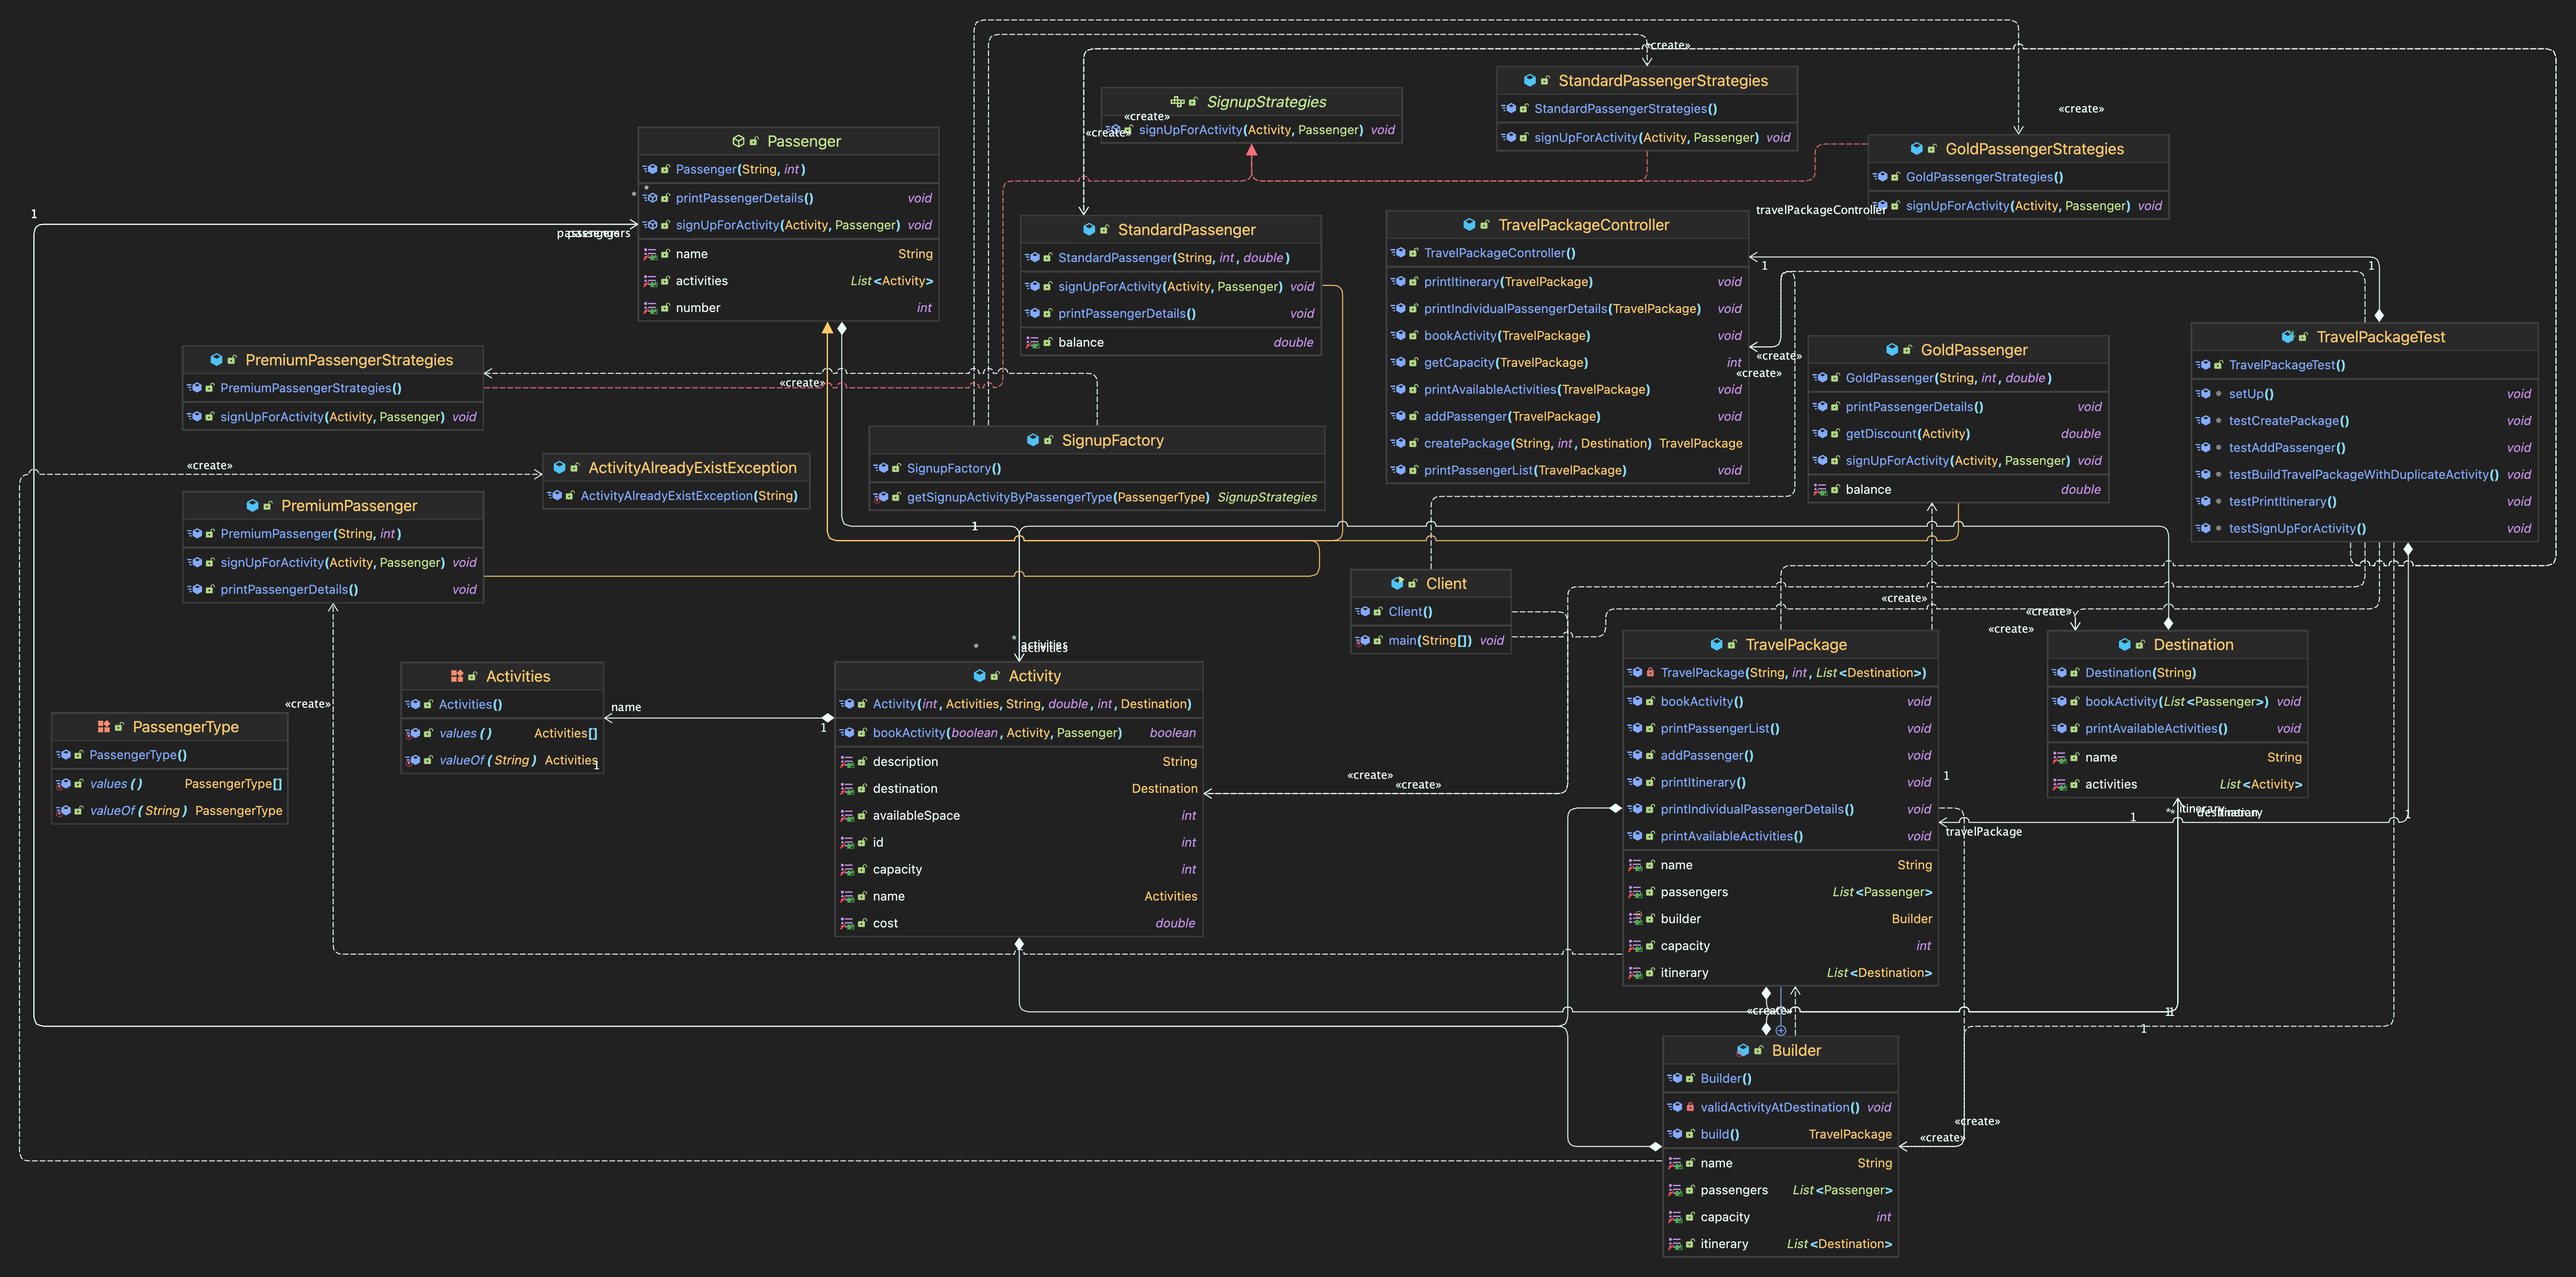
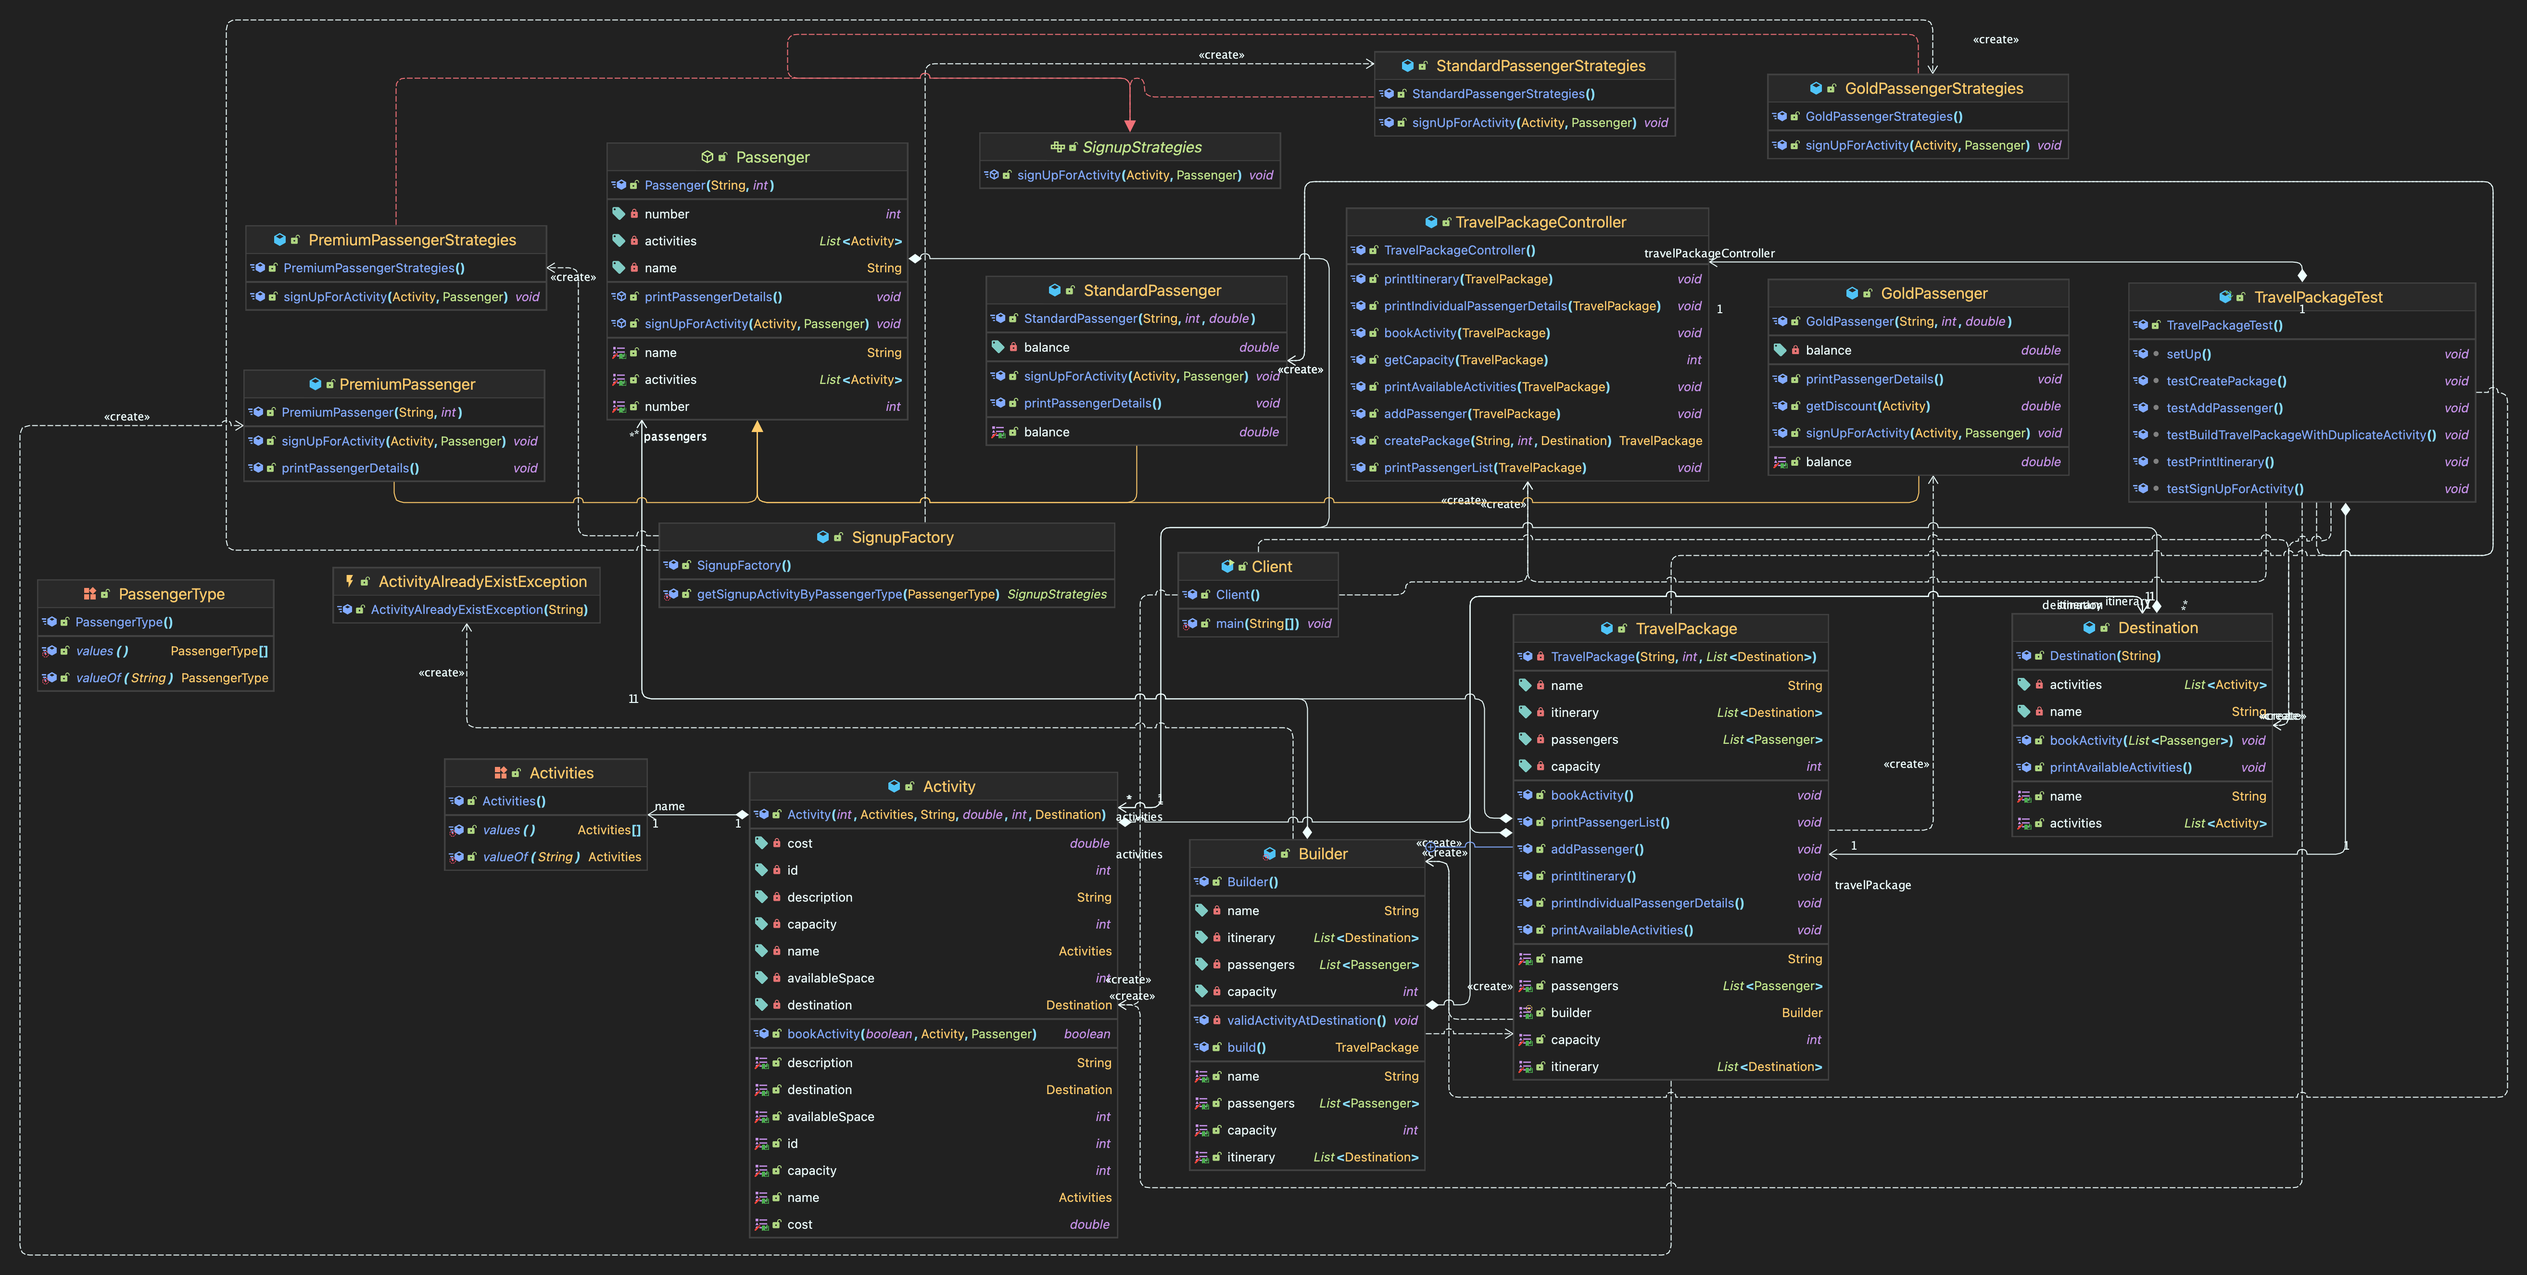
A new exception added

diff --git a/src/model/Destination.java b/src/model/Destination.java
@@ -1,5 +1,7 @@
 package model;
 
+import exception.InvalidActivityNumberException;
+
 import java.util.ArrayList;
 import java.util.List;
 import java.util.Scanner;
@@ -68,7 +70,7 @@ public class Destination {
      * @param passengers List of passengers for whom activities are booked.
      */
 
-    public void bookActivity(List<Passenger> passengers) {
+    public void bookActivity(List<Passenger> passengers) throws InvalidActivityNumberException {
         System.out.println("---------------------------------------------------------------------");
         boolean flag = true;
         Scanner sc = new Scanner(System.in);
@@ -80,7 +82,9 @@ public class Destination {
             sc.nextLine();// to handle extra space which come in the form of enter when user try to input details from console
             Activity activity = this.getActivities().stream().filter(a -> a.getId() == activity_number).findFirst().orElse(null);
             Passenger passenger = passengers.stream().filter(p -> p.getNumber() == passenger_number).findFirst().orElse(null);
-            assert activity != null;
+            if(activity == null){
+                throw new InvalidActivityNumberException("Please provide correct activity id");
+            }
             flag = activity.bookActivity(flag, activity, passenger);
         }
         System.out.println("---------------------------------------------------------------------");

diff --git a/src/exception/InvalidActivityNumberException.java b/src/exception/InvalidActivityNumberException.java
@@ -1,0 +1,16 @@
+package exception;
+
+/**
+ * An exception class to represent the case when an invalid activity number is encountered.
+ * This exception can be thrown when attempting to perform an operation with an invalid activity number.
+ */
+public class InvalidActivityNumberException extends Throwable {
+    /**
+     * Constructs an InvalidActivityNumberException with the specified detail message.
+     *
+     * @param please_provide_correct_activity_id The detail message indicating the reason for the exception.
+     */
+    public InvalidActivityNumberException(String please_provide_correct_activity_id) {
+        super(please_provide_correct_activity_id);
+    }
+}

diff --git a/src/Client.java b/src/Client.java
@@ -1,12 +1,13 @@
 import Controller.TravelPackageController;
 import exception.ActivityAlreadyExistException;
+import exception.InvalidActivityNumberException;
 import model.*;
 
 import java.util.List;
 import java.util.Scanner;
 
 public class Client {
-    public static void main(String[] args) throws ActivityAlreadyExistException {
+    public static void main(String[] args) throws ActivityAlreadyExistException, InvalidActivityNumberException {
         // Client journey starts here
         TravelPackageController travelPackageController = new TravelPackageController();
         Scanner sc = new Scanner(System.in);

diff --git a/src/model/TravelPackage.java b/src/model/TravelPackage.java
@@ -1,6 +1,7 @@
 package model;
 
 import exception.ActivityAlreadyExistException;
+import exception.InvalidActivityNumberException;
 
 import java.util.*;
 /**
@@ -165,7 +166,7 @@ public class TravelPackage {
      * Method to book activities for passengers in the travel package.
      */
 
-    public void bookActivity() {
+    public void bookActivity() throws InvalidActivityNumberException {
             Destination destination = getItinerary().stream().findFirst().orElse(null);
             assert destination != null;
         destination.bookActivity(getPassengers());

diff --git a/src/Controller/TravelPackageController.java b/src/Controller/TravelPackageController.java
@@ -1,6 +1,7 @@
 package Controller;
 
 import exception.ActivityAlreadyExistException;
+import exception.InvalidActivityNumberException;
 import model.Destination;
 import model.TravelPackage;
 
@@ -78,7 +79,7 @@ public class TravelPackageController {
      *
      * @param travelPackage The travel package in which the activity will be booked.
      */
-    public void bookActivity(TravelPackage travelPackage) {
+    public void bookActivity(TravelPackage travelPackage) throws InvalidActivityNumberException {
         travelPackage.bookActivity();
     }
 
